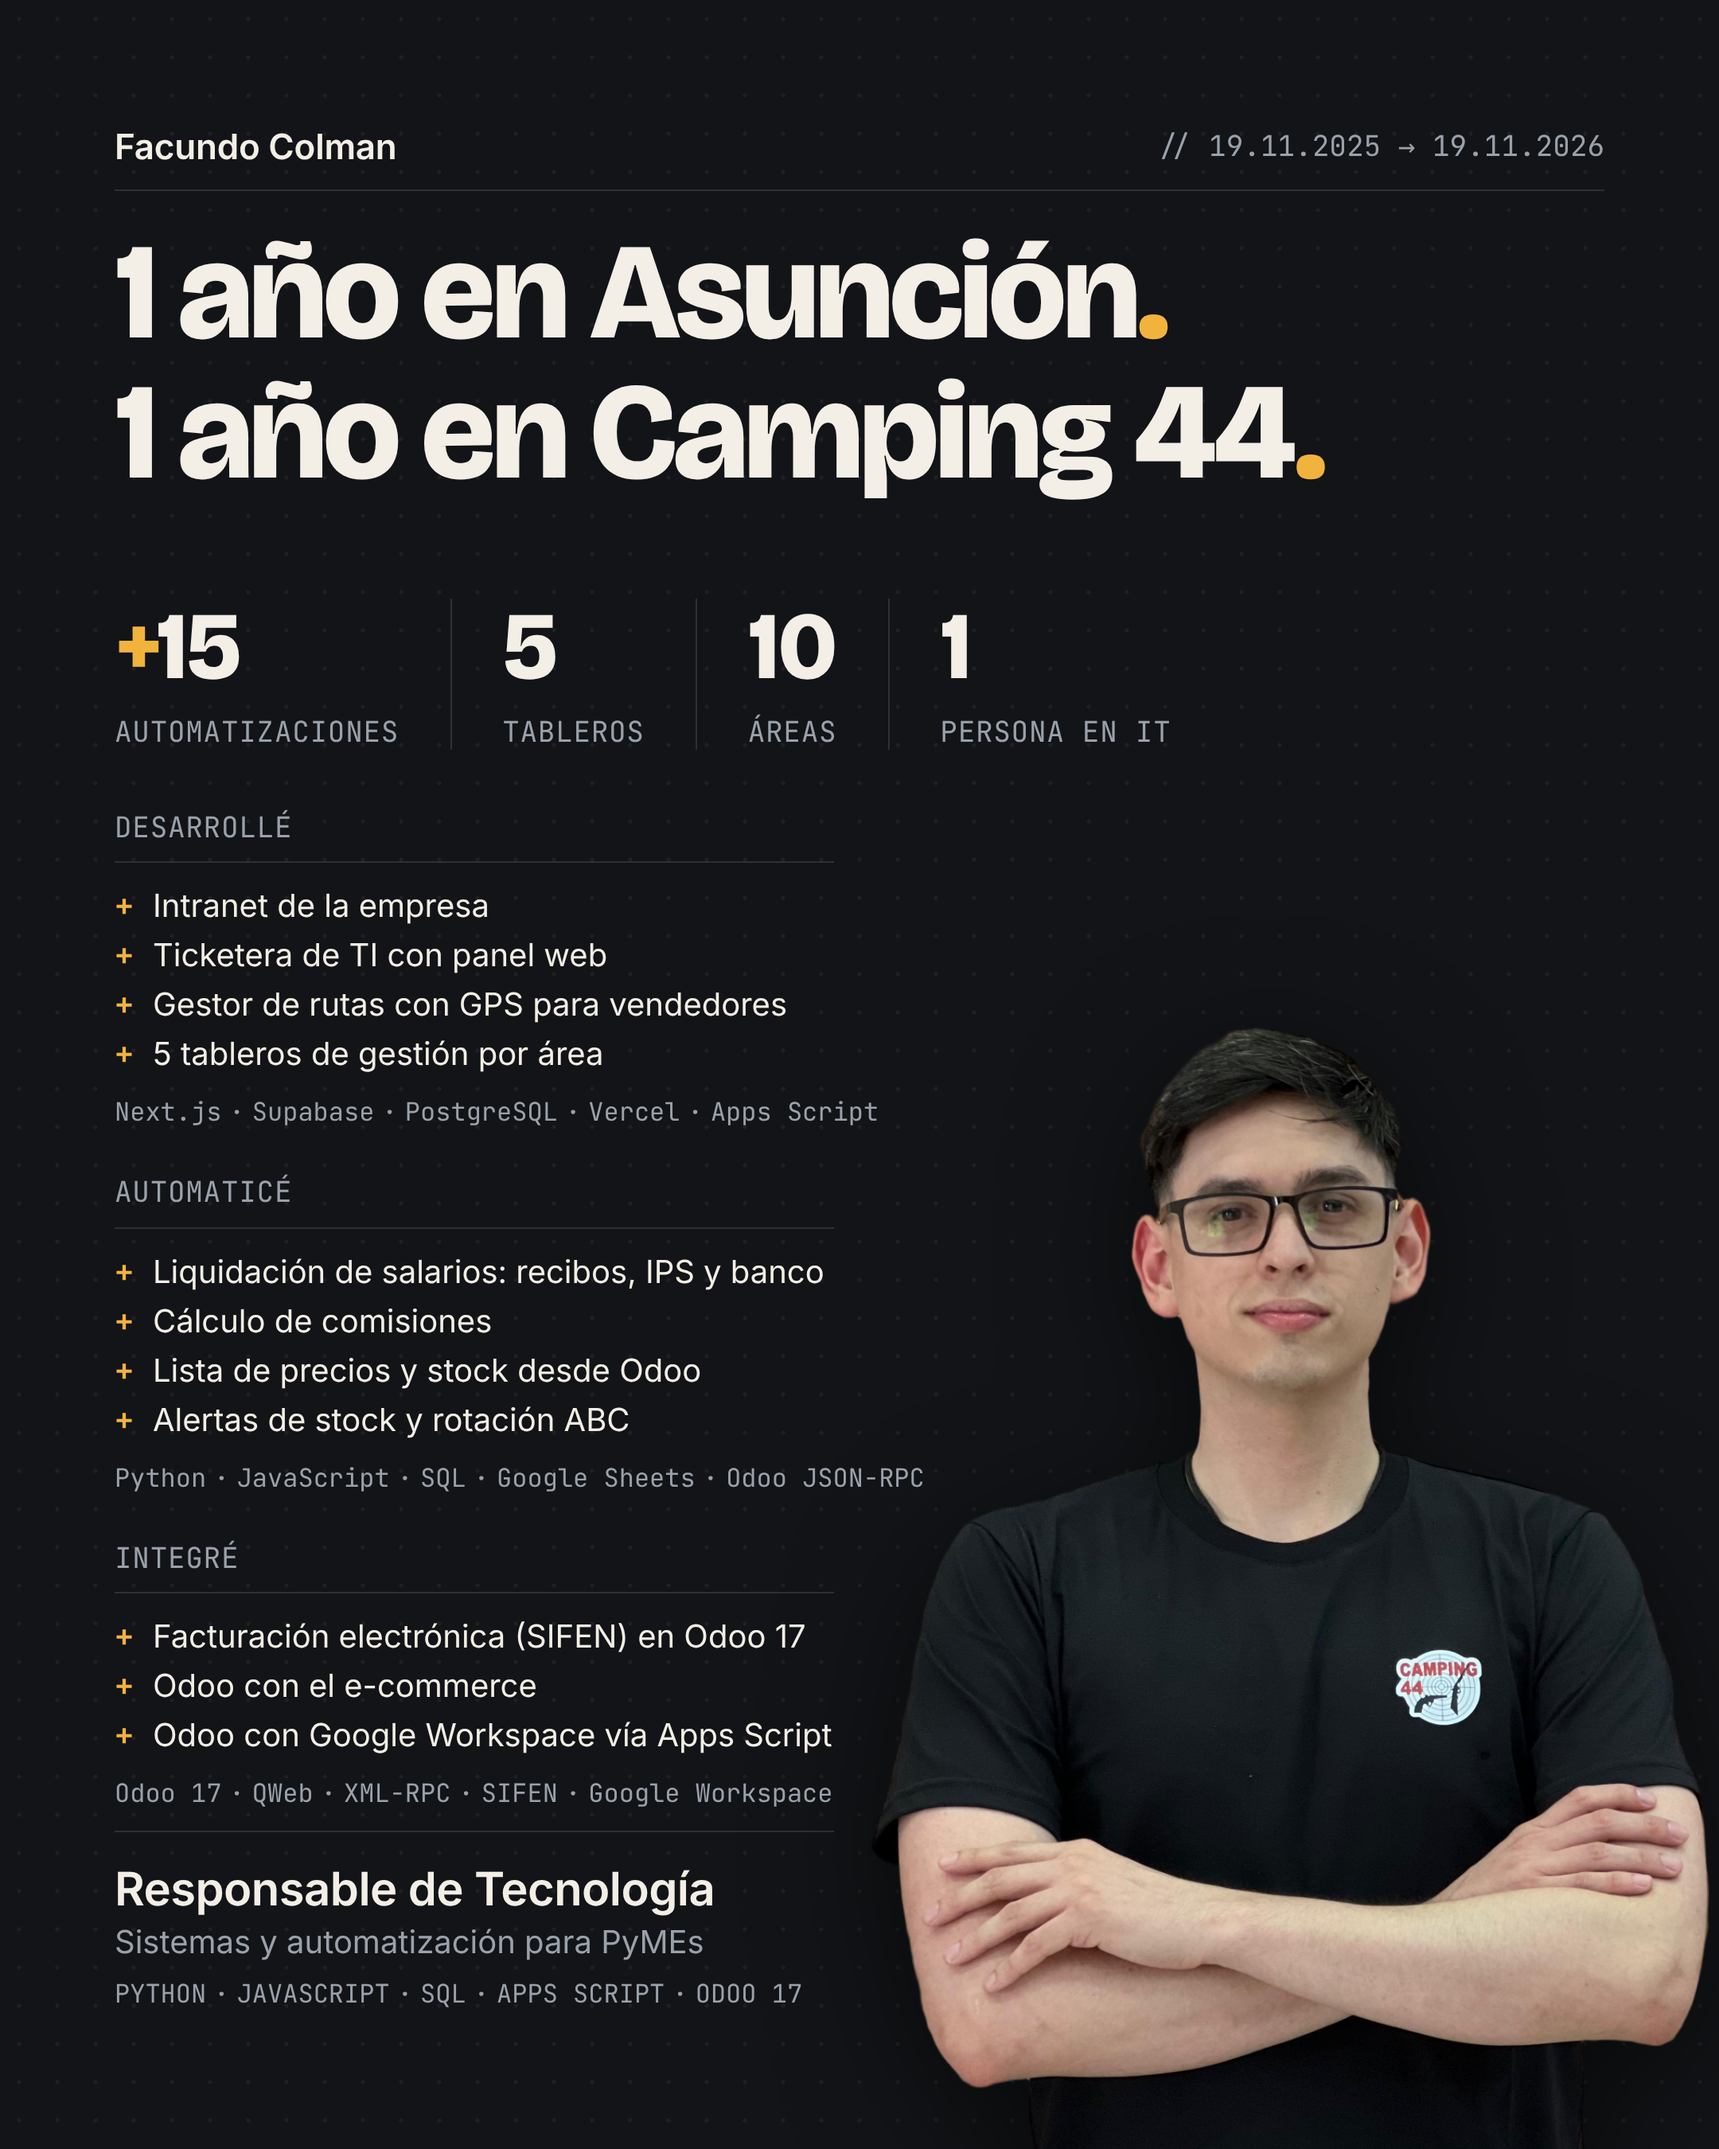
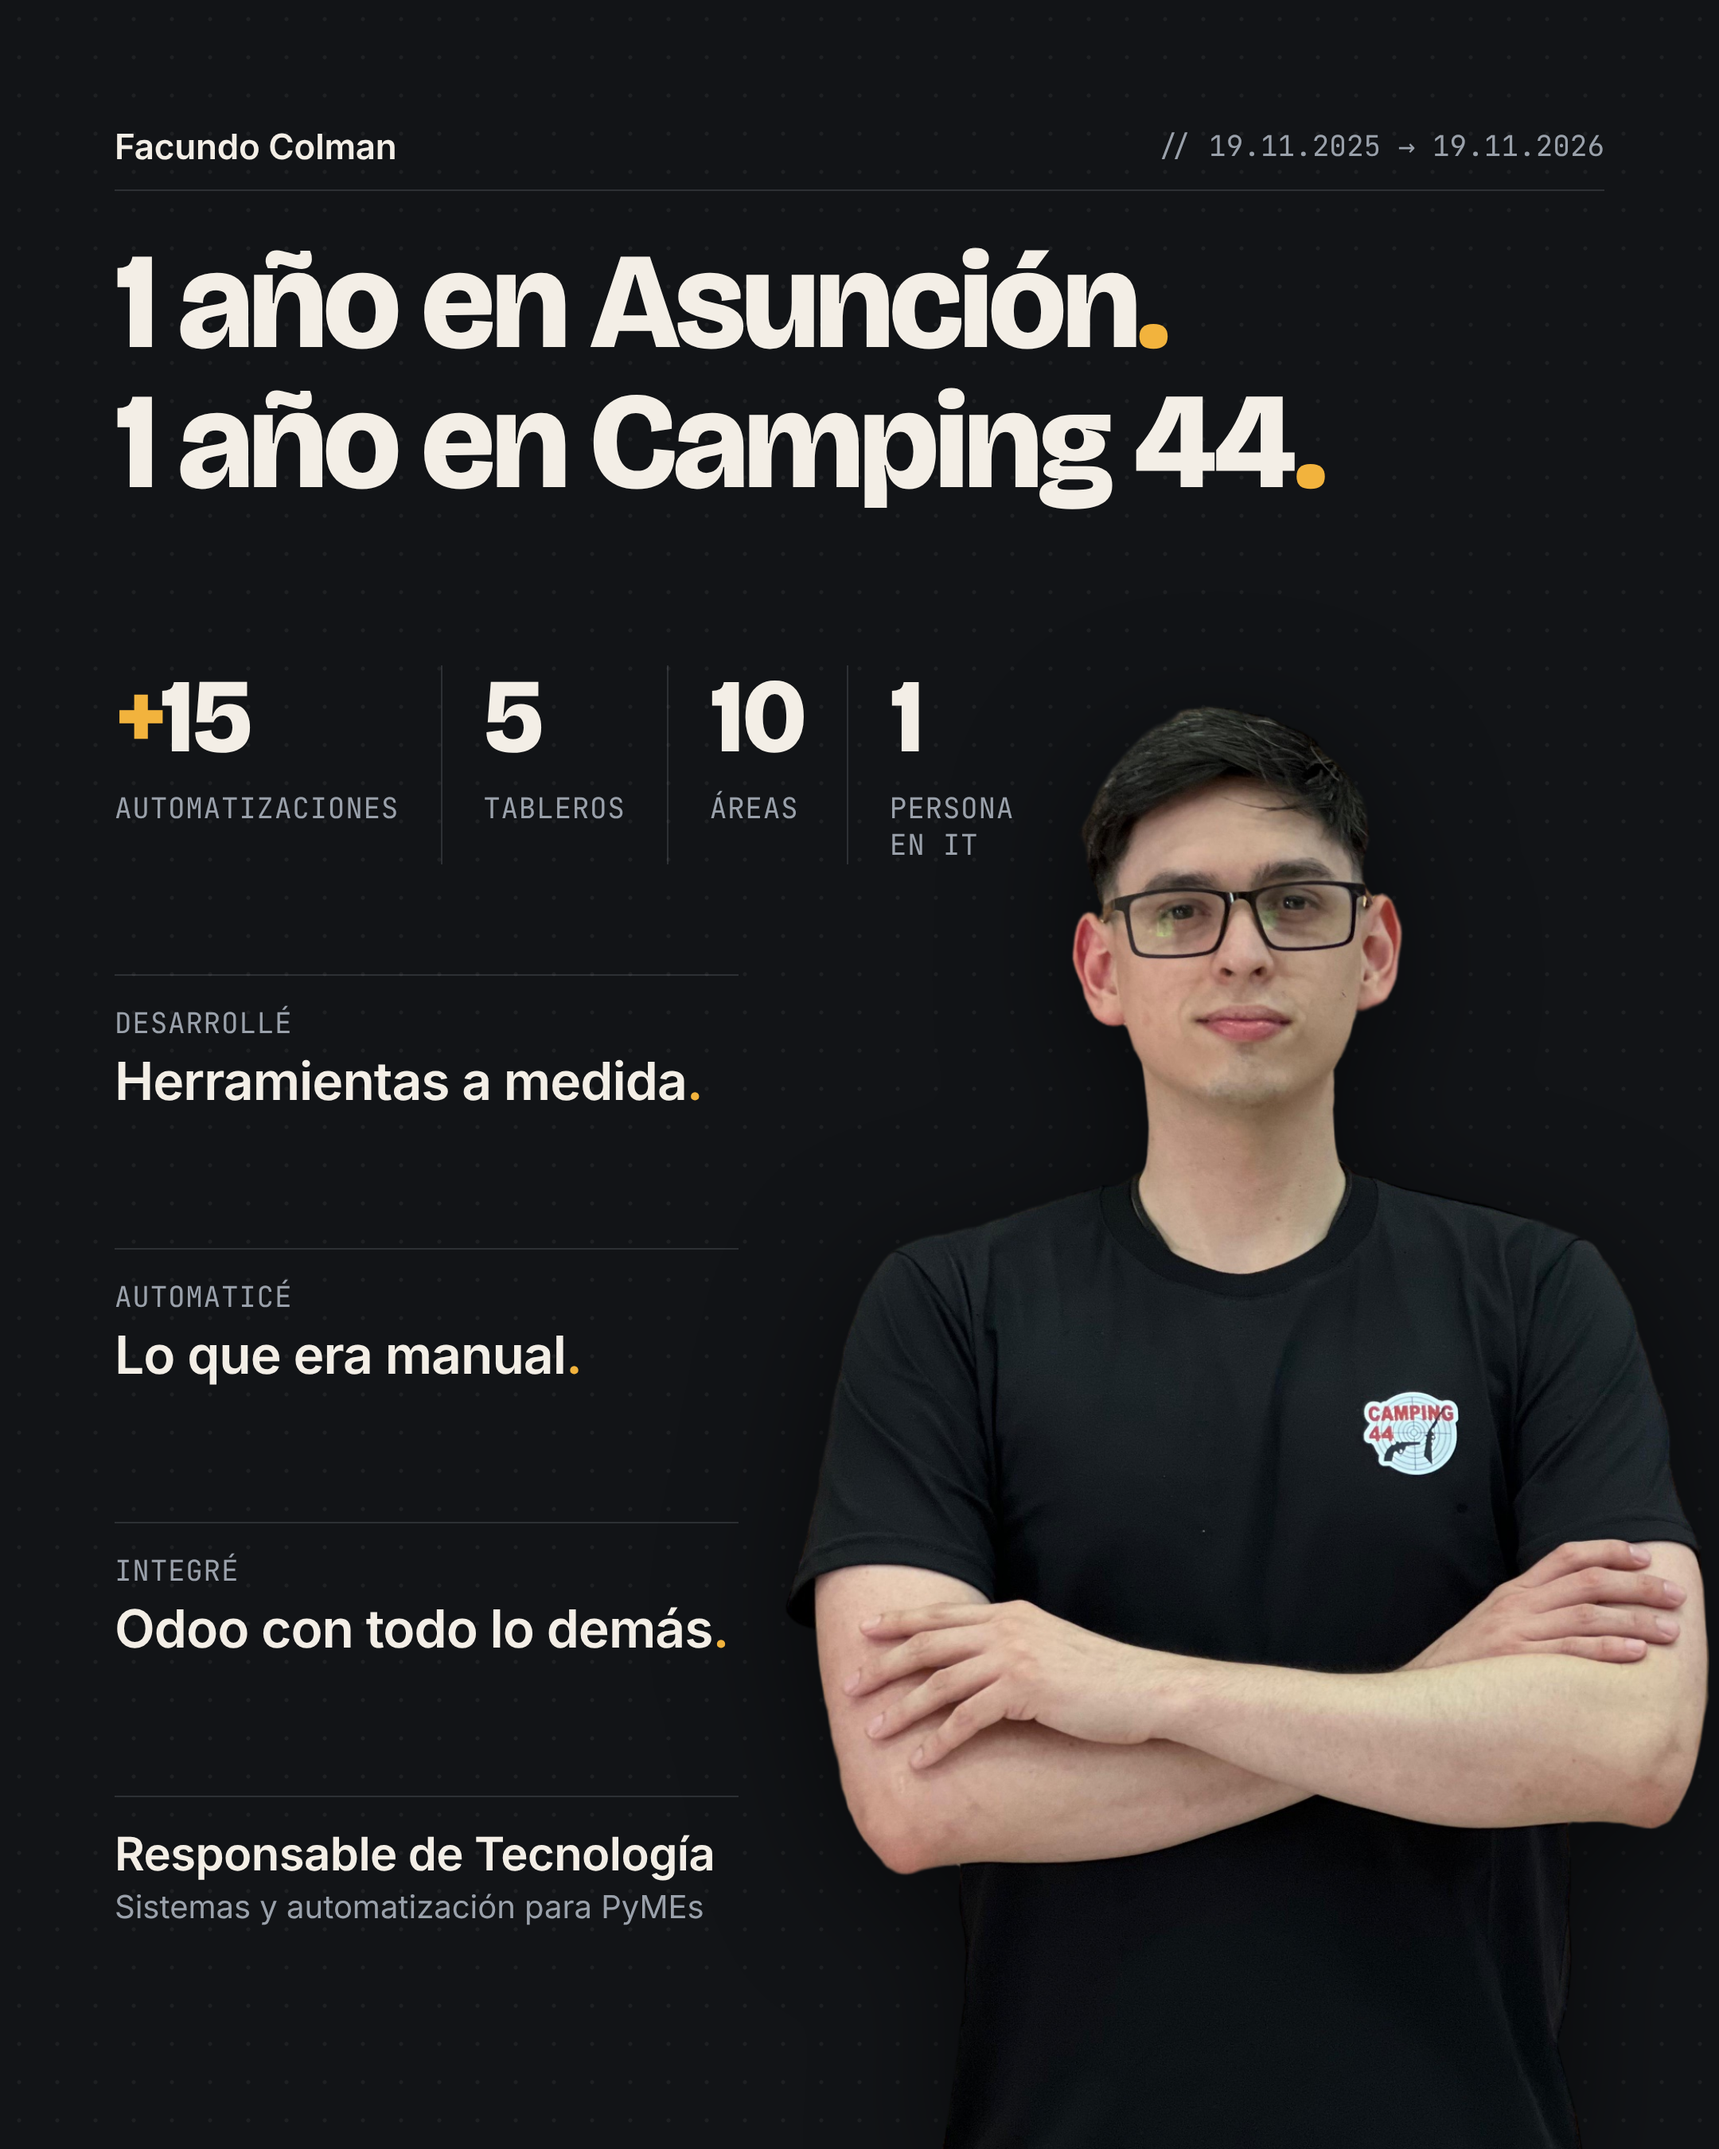
Post LinkedIn: versión general y de impacto
- Reemplaza los 3 grupos detallados y las líneas técnicas por 3 frases cortas
  (Desarrollé / Automaticé / Integré)
- Números más grandes (66 px) y foto otra vez grande, con la cabeza a la altura de los números
- Espaciado parejo entre bloques

Claude-Session: https://claude.ai/code/session_01QmKcF7XnkXzDbM9dM3Boey

diff --git a/src/build.js b/src/build.js
@@ -11,42 +11,21 @@ const OUT = path.join(SRC, '..', 'output');
 const C = { ivory: '#F3EEE6', gray: '#9AA1AB', gold: '#F2B33D', bg: '#121417',
             box: 'rgba(154,161,171,0.42)' };
 
-const GROUPS = [
-  ['Desarrollé', ['Next.js', 'Supabase', 'PostgreSQL', 'Vercel', 'Apps Script'], [
-    'Intranet de la empresa',
-    'Ticketera de TI con panel web',
-    'Gestor de rutas con GPS para vendedores',
-    '5 tableros de gestión por área',
-  ]],
-  ['Automaticé', ['Python', 'JavaScript', 'SQL', 'Google Sheets', 'Odoo JSON-RPC'], [
-    'Liquidación de salarios: recibos, IPS y banco',
-    'Cálculo de comisiones',
-    'Lista de precios y stock desde Odoo',
-    'Alertas de stock y rotación ABC',
-  ]],
-  ['Integré', ['Odoo 17', 'QWeb', 'XML-RPC', 'SIFEN', 'Google Workspace'], [
-    'Facturación electrónica (SIFEN) en Odoo 17',
-    'Odoo con el e-commerce',
-    'Odoo con Google Workspace vía Apps Script',
-  ]],
+// Tres frases generales: se leen de un vistazo en el feed (el detalle va en el texto del post)
+const STATEMENTS = [
+  ['Desarrollé', 'Herramientas a medida'],
+  ['Automaticé', 'Lo que era manual'],
+  ['Integré', 'Odoo con todo lo demás'],
 ];
 
 // Posiciones verticales (px CSS) de cada bloque
-const FOOTER_TECH = ['PYTHON', 'JAVASCRIPT', 'SQL', 'APPS SCRIPT', 'ODOO 17'];
-
-const L = { stats: 376, groups: 508, footer: 1150 };
-
-// Línea de tecnologías: palabras separadas por " · "
-const tech = words => `<div class="tech">${words.join('<span class="sep"> · </span>')}</div>`;
+const L = { stats: 418, statements: 612, footer: 1128 };
 
 function page() {
-  const groups = GROUPS.map(([title, stack, items]) => `
-    <div class="group">
-      <div class="section-head"><span class="label">${title}</span></div>
-      <ul class="notes">
-        ${items.map(t => `<li><span class="plus">+</span>${t}</li>`).join('\n        ')}
-      </ul>
-      ${tech(stack)}
+  const statements = STATEMENTS.map(([verb, text]) => `
+    <div class="statement">
+      <div class="label">${verb}</div>
+      <div class="phrase">${text}<span class="dot">.</span></div>
     </div>`).join('');
   return `<!doctype html>
 <html lang="es">
@@ -74,16 +53,15 @@ function page() {
     <div class="stat"><div class="num"><span class="dot">+</span>15</div><div class="label">Automatizaciones</div></div>
     <div class="stat"><div class="num">5</div><div class="label">Tableros</div></div>
     <div class="stat"><div class="num">10</div><div class="label">Áreas</div></div>
-    <div class="stat"><div class="num">1</div><div class="label">Persona en IT</div></div>
+    <div class="stat"><div class="num">1</div><div class="label">Persona<br>en IT</div></div>
   </section>
 
-  <section class="content groups" style="top:${L.groups}px">${groups}
+  <section class="content statements" style="top:${L.statements}px">${statements}
   </section>
 
   <footer class="footer" style="top:${L.footer}px">
     <div class="role">Responsable de Tecnología</div>
     <div class="tag">Sistemas y automatización para PyMEs</div>
-    ${tech(FOOTER_TECH)}
   </footer>
 
 </main>
@@ -110,11 +88,11 @@ function page() {
   // --- Verificación: aire entre cada texto/caja y la silueta de la foto ---
   const info = await p.evaluate(() => {
     const img = document.querySelector('.photo').getBoundingClientRect();
-    const els = [...document.querySelectorAll('.content .num, .content .label, .notes li, .tech, .section-head, .footer .role, .footer .tag, .footer')];
+    const els = [...document.querySelectorAll('.content .num, .content .label, .phrase, .statement, .footer .role, .footer .tag, .footer')];
     const boxes = els.map(e => {
       let r = e.getBoundingClientRect();
       // para bloques de texto, medir el ancho real del texto (no el del contenedor)
-      if (e.tagName === 'LI' || e.classList.contains('role') || e.classList.contains('tag') || e.classList.contains('tech')) {
+      if (e.classList.contains('phrase') || e.classList.contains('role') || e.classList.contains('tag')) {
         const range = document.createRange(); range.selectNodeContents(e); r = range.getBoundingClientRect();
       }
       return { name: (e.textContent || e.tagName).trim().slice(0, 40) || e.tagName, x0: r.left, x1: r.right, y0: r.top, y1: r.bottom };

diff --git a/src/styles.css b/src/styles.css
@@ -7,7 +7,7 @@
   --rule: rgba(154, 161, 171, 0.20);   /* divisorias: gris al 20% */
   --box: rgba(154, 161, 171, 0.42);    /* bordes de cajas y conectores */
   --margin: 72px;
-  --col: 452px;                         /* columna de contenido: 72 → 524 */
+  --col: 392px;                         /* columna de contenido: 72 → 464 */
 }
 
 * { box-sizing: border-box; margin: 0; padding: 0; }
@@ -43,7 +43,7 @@ html, body { width: 1080px; height: 1350px; background: var(--bg); }
 /* ---------- Título ---------- */
 .title {
   position: absolute;
-  top: 140px; left: var(--margin);
+  top: 146px; left: var(--margin);
   font-family: "Bricolage Grotesque", sans-serif;
   font-weight: 800;
   font-size: 86px;
@@ -57,8 +57,8 @@ html, body { width: 1080px; height: 1350px; background: var(--bg); }
 /* ---------- Foto ---------- */
 .photo {
   position: absolute;
-  right: 6px; bottom: -118px;         /* mismo tamaño; corre hacia abajo para dejar aire a las líneas técnicas (codos siguen dentro) */
-  width: 527px;                        /* máximo que deja ~30 px de aire con los ítems más largos */
+  right: 6px; bottom: 0;              /* codos completos dentro del cuadro */
+  width: 581px;                        /* grande: cabeza a la altura de la fila de números */
   height: auto;
   filter: drop-shadow(0 18px 40px rgba(0, 0, 0, 0.55));
 }
@@ -81,54 +81,35 @@ html, body { width: 1080px; height: 1350px; background: var(--bg); }
 
 /* Datos */
 .stats { display: grid; grid-template-columns: repeat(4, auto); justify-content: start; width: auto; }
-.stat { padding: 0 32px; border-left: 1px solid var(--rule); }
+.stat { padding: 0 26px; border-left: 1px solid var(--rule); }
 .stat .label { white-space: nowrap; }
 .stat:first-child { padding-left: 0; border-left: 0; }
 .stat .num .dot { color: var(--gold); }
 .stat .num {
   font-family: "Bricolage Grotesque", sans-serif;
   font-weight: 800;
-  font-size: 60px;
+  font-size: 66px;
   line-height: 1;
   letter-spacing: -0.02em;
   color: var(--ivory);
   margin-bottom: 12px;
 }
 
-.section-head {
-  display: flex; justify-content: space-between; align-items: baseline;
-  padding-bottom: 10px;
-  border-bottom: 1px solid var(--rule);
-  margin-bottom: 12px;
-}
-
-/* Grupos: Desarrollé / Automaticé / Integré */
-.groups { display: flex; flex-direction: column; gap: 28px; }
-.notes { list-style: none; }
-.notes li {
-  display: flex; align-items: baseline;
-  font-size: 20px; line-height: 31px; font-weight: 400;
+/* Frases: verbo en mono + frase corta grande */
+.statements { display: flex; flex-direction: column; gap: 84px; }
+.statement { padding-top: 18px; border-top: 1px solid var(--rule); }
+.phrase {
+  margin-top: 6px;
+  font-weight: 600;
+  font-size: 33px;
+  line-height: 1.2;
+  letter-spacing: -0.015em;
   color: var(--ivory);
   white-space: nowrap;
 }
-.notes .plus {
-  flex: 0 0 24px;
-  font-family: "JetBrains Mono", monospace; font-weight: 500;
-  color: var(--gold);
-}
+.phrase .dot { color: var(--gold); }
 
 /* Pie */
 .footer { position: absolute; left: var(--margin); width: var(--col); padding-top: 18px; border-top: 1px solid var(--rule); }
 .footer .role { font-weight: 600; font-size: 29px; letter-spacing: -0.01em; color: var(--ivory); }
 .footer .tag { margin-top: 4px; font-weight: 400; font-size: 20px; color: var(--gray); }
-
-/* Línea técnica: detalle, no protagonista */
-.tech {
-  margin-top: 10px;
-  font-family: "JetBrains Mono", monospace;
-  font-size: 16px; line-height: 21px;
-  color: var(--gray);
-  white-space: nowrap;
-}
-.footer .tech { margin-top: 10px; }
-.tech .sep { word-spacing: -0.3em; } /* espacios de " · " un poco más angostos que la celda mono completa */

diff --git a/src/post.html b/src/post.html
@@ -20,49 +20,31 @@
 
   <img class="photo" src="foto_recorte.png" alt="Facundo Colman">
 
-  <section class="content stats" style="top:376px">
+  <section class="content stats" style="top:418px">
     <div class="stat"><div class="num"><span class="dot">+</span>15</div><div class="label">Automatizaciones</div></div>
     <div class="stat"><div class="num">5</div><div class="label">Tableros</div></div>
     <div class="stat"><div class="num">10</div><div class="label">Áreas</div></div>
-    <div class="stat"><div class="num">1</div><div class="label">Persona en IT</div></div>
+    <div class="stat"><div class="num">1</div><div class="label">Persona<br>en IT</div></div>
   </section>
 
-  <section class="content groups" style="top:508px">
-    <div class="group">
-      <div class="section-head"><span class="label">Desarrollé</span></div>
-      <ul class="notes">
-        <li><span class="plus">+</span>Intranet de la empresa</li>
-        <li><span class="plus">+</span>Ticketera de TI con panel web</li>
-        <li><span class="plus">+</span>Gestor de rutas con GPS para vendedores</li>
-        <li><span class="plus">+</span>5 tableros de gestión por área</li>
-      </ul>
-      <div class="tech">Next.js<span class="sep"> · </span>Supabase<span class="sep"> · </span>PostgreSQL<span class="sep"> · </span>Vercel<span class="sep"> · </span>Apps Script</div>
+  <section class="content statements" style="top:612px">
+    <div class="statement">
+      <div class="label">Desarrollé</div>
+      <div class="phrase">Herramientas a medida<span class="dot">.</span></div>
     </div>
-    <div class="group">
-      <div class="section-head"><span class="label">Automaticé</span></div>
-      <ul class="notes">
-        <li><span class="plus">+</span>Liquidación de salarios: recibos, IPS y banco</li>
-        <li><span class="plus">+</span>Cálculo de comisiones</li>
-        <li><span class="plus">+</span>Lista de precios y stock desde Odoo</li>
-        <li><span class="plus">+</span>Alertas de stock y rotación ABC</li>
-      </ul>
-      <div class="tech">Python<span class="sep"> · </span>JavaScript<span class="sep"> · </span>SQL<span class="sep"> · </span>Google Sheets<span class="sep"> · </span>Odoo JSON-RPC</div>
+    <div class="statement">
+      <div class="label">Automaticé</div>
+      <div class="phrase">Lo que era manual<span class="dot">.</span></div>
     </div>
-    <div class="group">
-      <div class="section-head"><span class="label">Integré</span></div>
-      <ul class="notes">
-        <li><span class="plus">+</span>Facturación electrónica (SIFEN) en Odoo 17</li>
-        <li><span class="plus">+</span>Odoo con el e-commerce</li>
-        <li><span class="plus">+</span>Odoo con Google Workspace vía Apps Script</li>
-      </ul>
-      <div class="tech">Odoo 17<span class="sep"> · </span>QWeb<span class="sep"> · </span>XML-RPC<span class="sep"> · </span>SIFEN<span class="sep"> · </span>Google Workspace</div>
+    <div class="statement">
+      <div class="label">Integré</div>
+      <div class="phrase">Odoo con todo lo demás<span class="dot">.</span></div>
     </div>
   </section>
 
-  <footer class="footer" style="top:1150px">
+  <footer class="footer" style="top:1128px">
     <div class="role">Responsable de Tecnología</div>
     <div class="tag">Sistemas y automatización para PyMEs</div>
-    <div class="tech">PYTHON<span class="sep"> · </span>JAVASCRIPT<span class="sep"> · </span>SQL<span class="sep"> · </span>APPS SCRIPT<span class="sep"> · </span>ODOO 17</div>
   </footer>
 
 </main>
